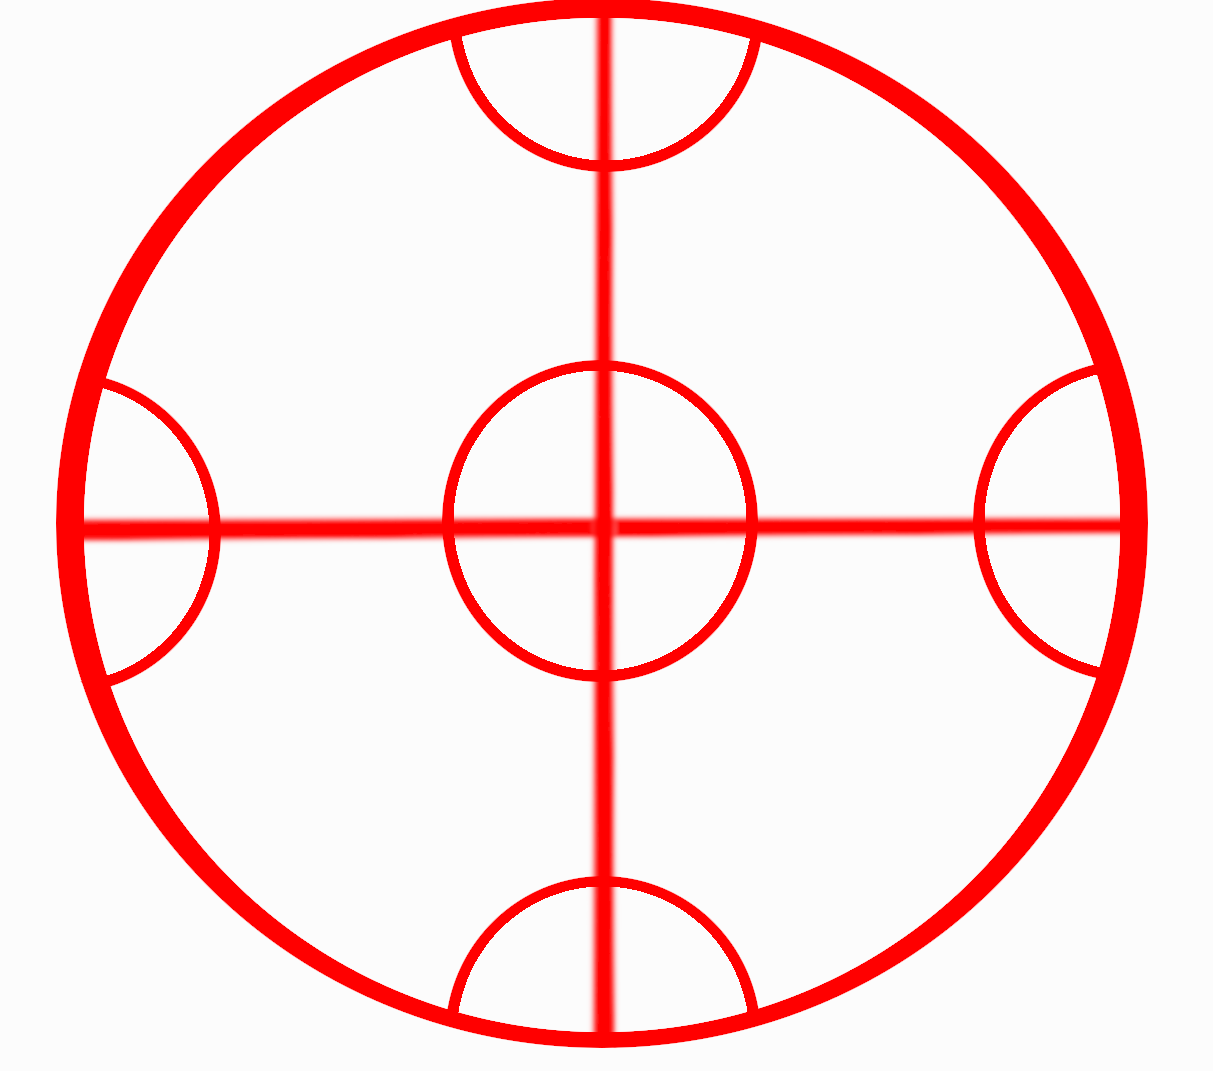
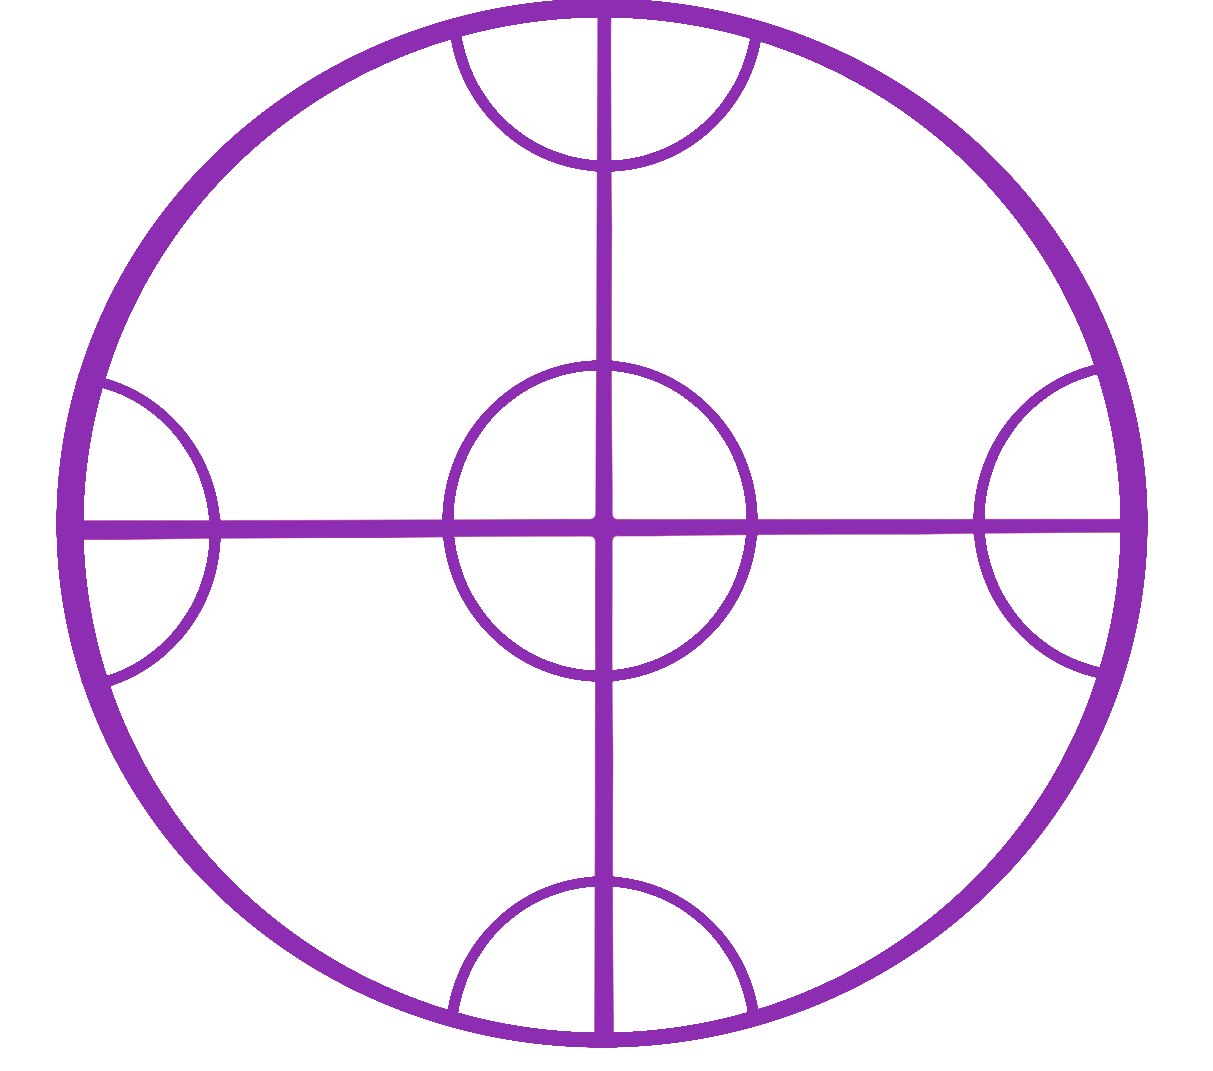
vita-css-bug ray sisa

diff --git a/src/pages/Main.jsx b/src/pages/Main.jsx
@@ -178,14 +178,12 @@ export default function Main() {
     setMovedPoliceIndex(null); // Reset moved police index
   }
 
-
-
   function handleSavePositions() {
     const cop1Pos = parseInt(document.getElementById("cops_1").value);
     const cop2Pos = parseInt(document.getElementById("cops_2").value);
     const cop3Pos = parseInt(document.getElementById("cops_3").value);
     const thiefPos = parseInt(document.getElementById("thief").value);
-    
+
     const newButtonStates = [];
     for (let i = 0; i < initialButtonStates.length; i++) {
       if (i === cop1Pos) {
@@ -204,7 +202,6 @@ export default function Main() {
     setButtonTexts(newButtonStates);
     handleCloseModal();
   }
-
 
   function handleButtonClick(index) {
     const currentIndex = buttonTexts.indexOf("🥷");
@@ -269,7 +266,11 @@ export default function Main() {
 
   return (
     <div className="container">
-      <Modal show={showModal} onHide={handleCloseModal} style={{ marginTop: "100px" }}>
+      <Modal
+        show={showModal}
+        onHide={handleCloseModal}
+        style={{ marginTop: "100px" }}
+      >
         <Modal.Header closeButton>
           <Modal.Title>Selectionner les nouveaux positions</Modal.Title>
         </Modal.Header>
@@ -281,24 +282,38 @@ export default function Main() {
           }}
         >
           <div class="input-div">
-            <label htmlFor="cops_1" style={{gap: '20px'}}>👮 (1) </label><input type="number" id="cops_1"/>
+            <label htmlFor="cops_1" style={{ gap: "20px" }}>
+              👮 (1){" "}
+            </label>
+            <input type="number" id="cops_1" />
             <br />
             <br />
-            <label htmlFor="cops_2" style={{gap: '20px'}}>👮 (3) </label><input type="number" id="cops_2"/>
+            <label htmlFor="cops_2" style={{ gap: "20px" }}>
+              👮 (3){" "}
+            </label>
+            <input type="number" id="cops_2" />
             <br />
             <br />
-            <label htmlFor="cops_3" style={{gap: '20px'}}>👮 (2) </label><input type="number" id="cops_3"/>
+            <label htmlFor="cops_3" style={{ gap: "20px" }}>
+              👮 (2){" "}
+            </label>
+            <input type="number" id="cops_3" />
             <br />
             <br />
-            <label htmlFor="thief" style={{gap: '20px'}}>🥷 (0)</label><input type="number" id="thief"/>
+            <label htmlFor="thief" style={{ gap: "20px" }}>
+              🥷 (0)
+            </label>
+            <input type="number" id="thief" />
           </div>
         </Modal.Body>
         <Modal.Footer>
-          <Button variant="success" onClick={handleSavePositions}>Enregistrer</Button>
+          <Button className="btn" style={{backgroundColor: '#8D2EB2'}} onClick={handleSavePositions}>
+            Enregistrer
+          </Button>
         </Modal.Footer>
       </Modal>
       <div className="title">
-        <h1>Welcome to the Thief Game</h1>
+        <h1 className="gradient-text">Welcome to the Thief Game</h1>
       </div>
 
       <div className="container-image">
@@ -389,18 +404,20 @@ export default function Main() {
 
       <div className="reset">
         <button
-          className="btn btn-warning"
+          className="btn"
           id="resteButton"
           onClick={resetGame}
+          style={{ gap: "20px", backgroundColor: "#8D2EB2", marginRight: "20px" }}
         >
           Reset
         </button>
         <button
-          className="btn btn-warning"
+          className="btn"
           id="resteButton"
           onClick={() => {
             handleShowModal();
           }}
+          style={{ gap: "20px", backgroundColor: "#8D2EB2" }}
         >
           SetPosition
         </button>

diff --git a/src/App.css b/src/App.css
@@ -1,15 +1,12 @@
 @import url("./assets/bootstrap/css/bootstrap.min.css");
 .container {
-  background-color: red;
   text-align: center;
 }
 
 .title {
-  background-color: green;
   padding: 10px;
 }
 .container-image {
-  background-color: aqua;
   padding-top: 35px;
 }
 .container img {
@@ -19,7 +16,6 @@
 }
 
 .reset {
-  background-color: purple;
   padding: 50px;
 }
 
@@ -141,4 +137,11 @@
 #centerCenter {
   top: 345px;
   left: 934px;
+}
+
+
+.gradient-text {
+  background-image: linear-gradient(to right, blue 0%, #8D2EB2 50%, red 100%);
+  -webkit-background-clip: text;
+  color: transparent;
 }
